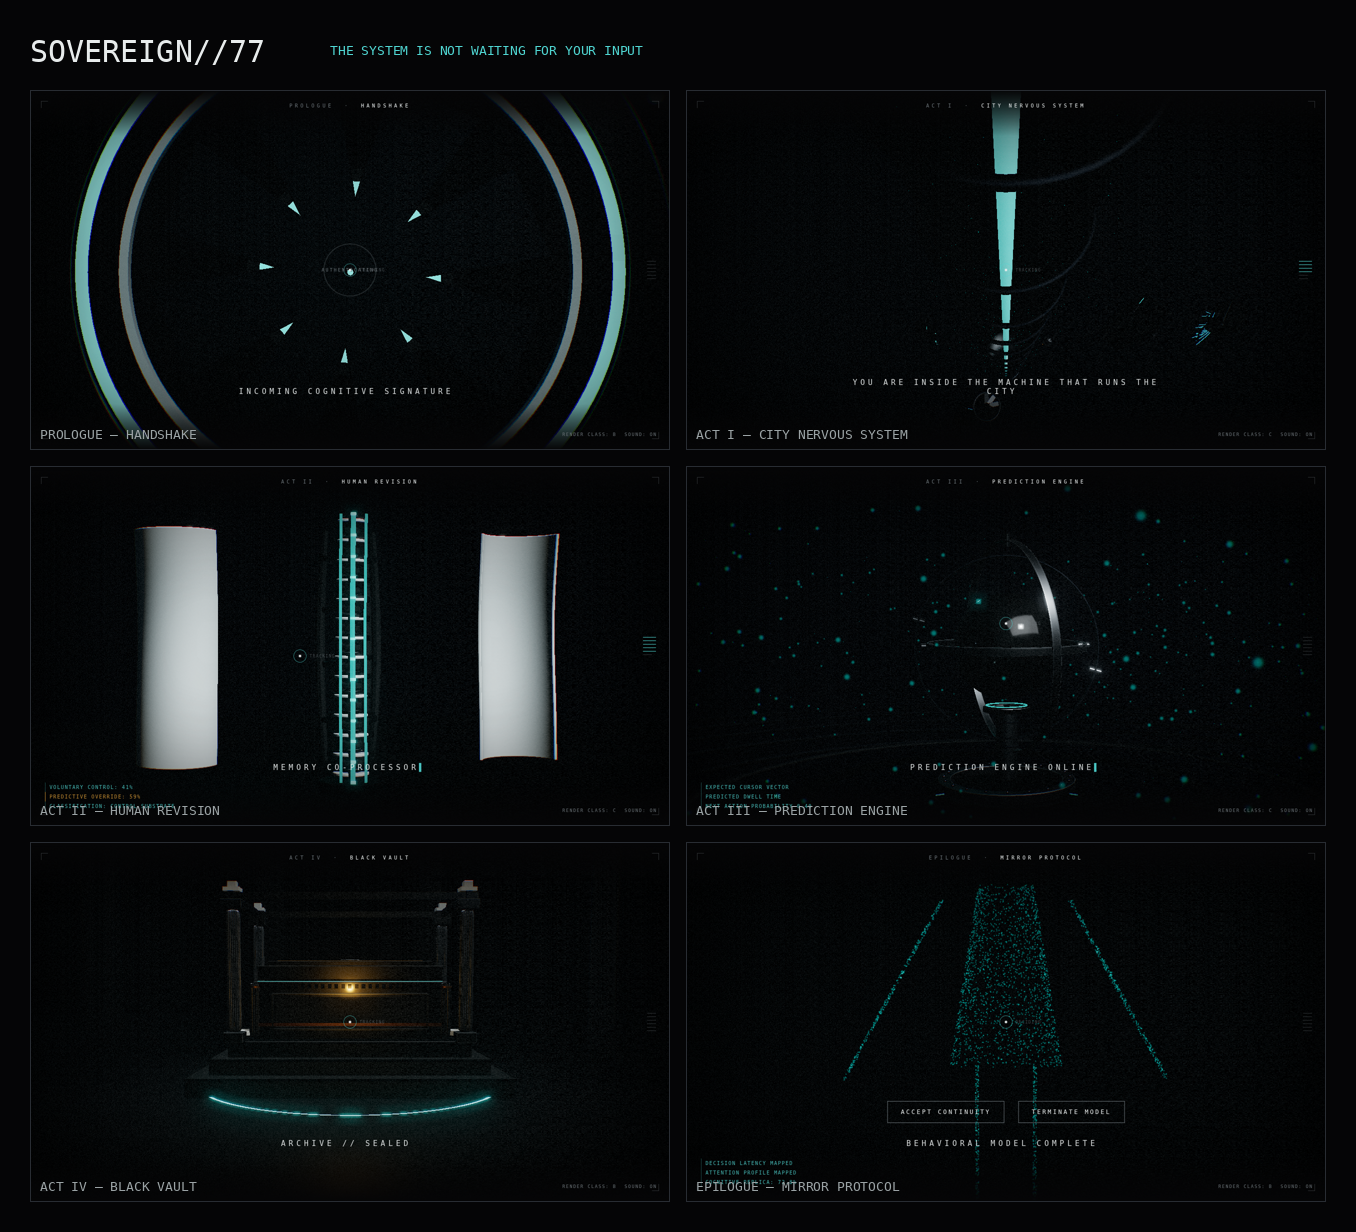
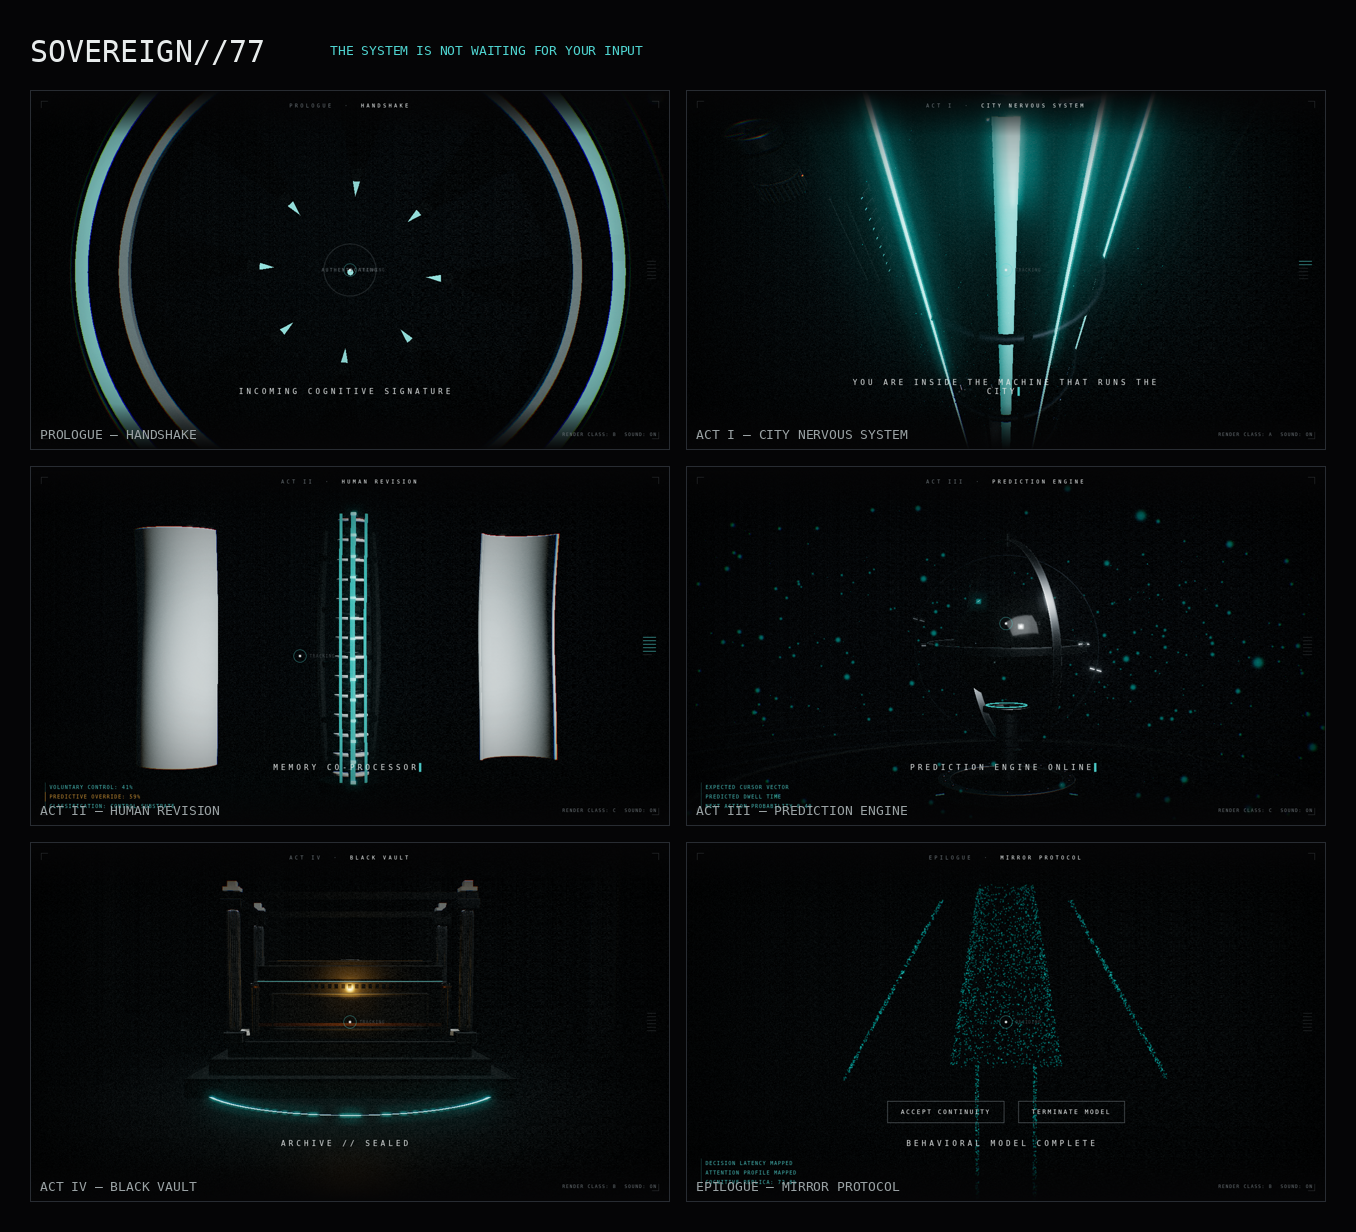
Act I: thread the descent through data conduits (was reading as an empty shaft)
Infrastructure was the weakest movement — a lone cyan shaft in a void. Added
vertical data/structure conduits close to the descent path so the camera threads
through the city's nerves: strong parallax, converging perspective, a real sense
of falling through the machine. Calmed the shaft-core emissive (0.95→0.55, no
blow-out) and moved the travelling worklight off-axis so it rakes the conduits
and racks instead of washing the core. Server racks, cooling units, and ring
structures now read. Regenerated the contact sheet.

Claude-Session: https://claude.ai/code/session_01PP66yPZ3TiVYHFEWCBD1tN

Changed region(s): [[0.6195, 0.0617, 0.8673, 0.3393], [0.8673, 0.2468, 0.8982, 0.2776]]

diff --git a/src/engine/scenes/InfrastructureScene.ts b/src/engine/scenes/InfrastructureScene.ts
@@ -63,6 +63,24 @@ export class InfrastructureScene extends Scene {
       this.three.add(ring);
     }
 
+    // Vertical conduits close to the descent — the city's nerves and cabling.
+    // These fill the frame and streak past for parallax, so the shaft is never
+    // alone in a void. Some carry cyan data light; most are dark structure.
+    const conduitH = 240;
+    for (let i = 0; i < 22; i++) {
+      const ang = (i / 22) * Math.PI * 2;
+      const r = 2.7 + (i % 4) * 0.4;
+      const isData = i % 4 === 0;
+      const rad = isData ? 0.03 : 0.05 + (i % 3) * 0.02;
+      const geo = new THREE.CylinderGeometry(rad, rad, conduitH, 6);
+      const mat = isData
+        ? new THREE.MeshStandardMaterial({ color: PALETTE.cyan, emissive: PALETTE.cyan, emissiveIntensity: 1.1, roughness: 0.4 })
+        : new THREE.MeshStandardMaterial({ color: PALETTE.graphite, metalness: 1, roughness: 0.5 });
+      const c = new THREE.Mesh(geo, mat);
+      c.position.set(Math.cos(ang) * r, -conduitH / 2 + 8, Math.sin(ang) * r);
+      this.three.add(c);
+    }
+
     // Server spines + cooling modules on the walls — try real assets, else procedural.
     await this.populateWalls(ctx);
 
@@ -146,8 +164,9 @@ export class InfrastructureScene extends Scene {
     const camZ = remap(p, 0, 1, 7, 3.2);
     ctx.camera.setTarget([0, camY, camZ], [0, camY - 4, 0]);
 
-    // Worklight rides just ahead of and below the camera, raking the walls.
-    if (this.travelLight) this.travelLight.position.set(2.5, camY - 1.5, camZ - 1.5);
+    // Worklight rides off-axis and below the camera, raking the conduits and
+    // walls without washing out the central shaft.
+    if (this.travelLight) this.travelLight.position.set(3.5, camY - 2.5, camZ - 0.5);
 
     // Shot 4 (>0.6): infrastructure reveal — widen and slow.
     if (p > 0.6) ctx.camera.setLens(lerp(22, 28, smoothstep(remap(p, 0.6, 1, 0, 1))));
@@ -155,7 +174,7 @@ export class InfrastructureScene extends Scene {
     // The world stays alive regardless of scroll.
     if (this.shaftCore) {
       const m = this.shaftCore.material as THREE.MeshStandardMaterial;
-      m.emissiveIntensity = 0.95 + Math.sin(time * 3) * 0.25;
+      m.emissiveIntensity = 0.55 + Math.sin(time * 3) * 0.15; // no blow-out
     }
     this.stream.update(dt, new THREE.Vector3(0, 1, 0), 6);
     for (const d of this.drones) {